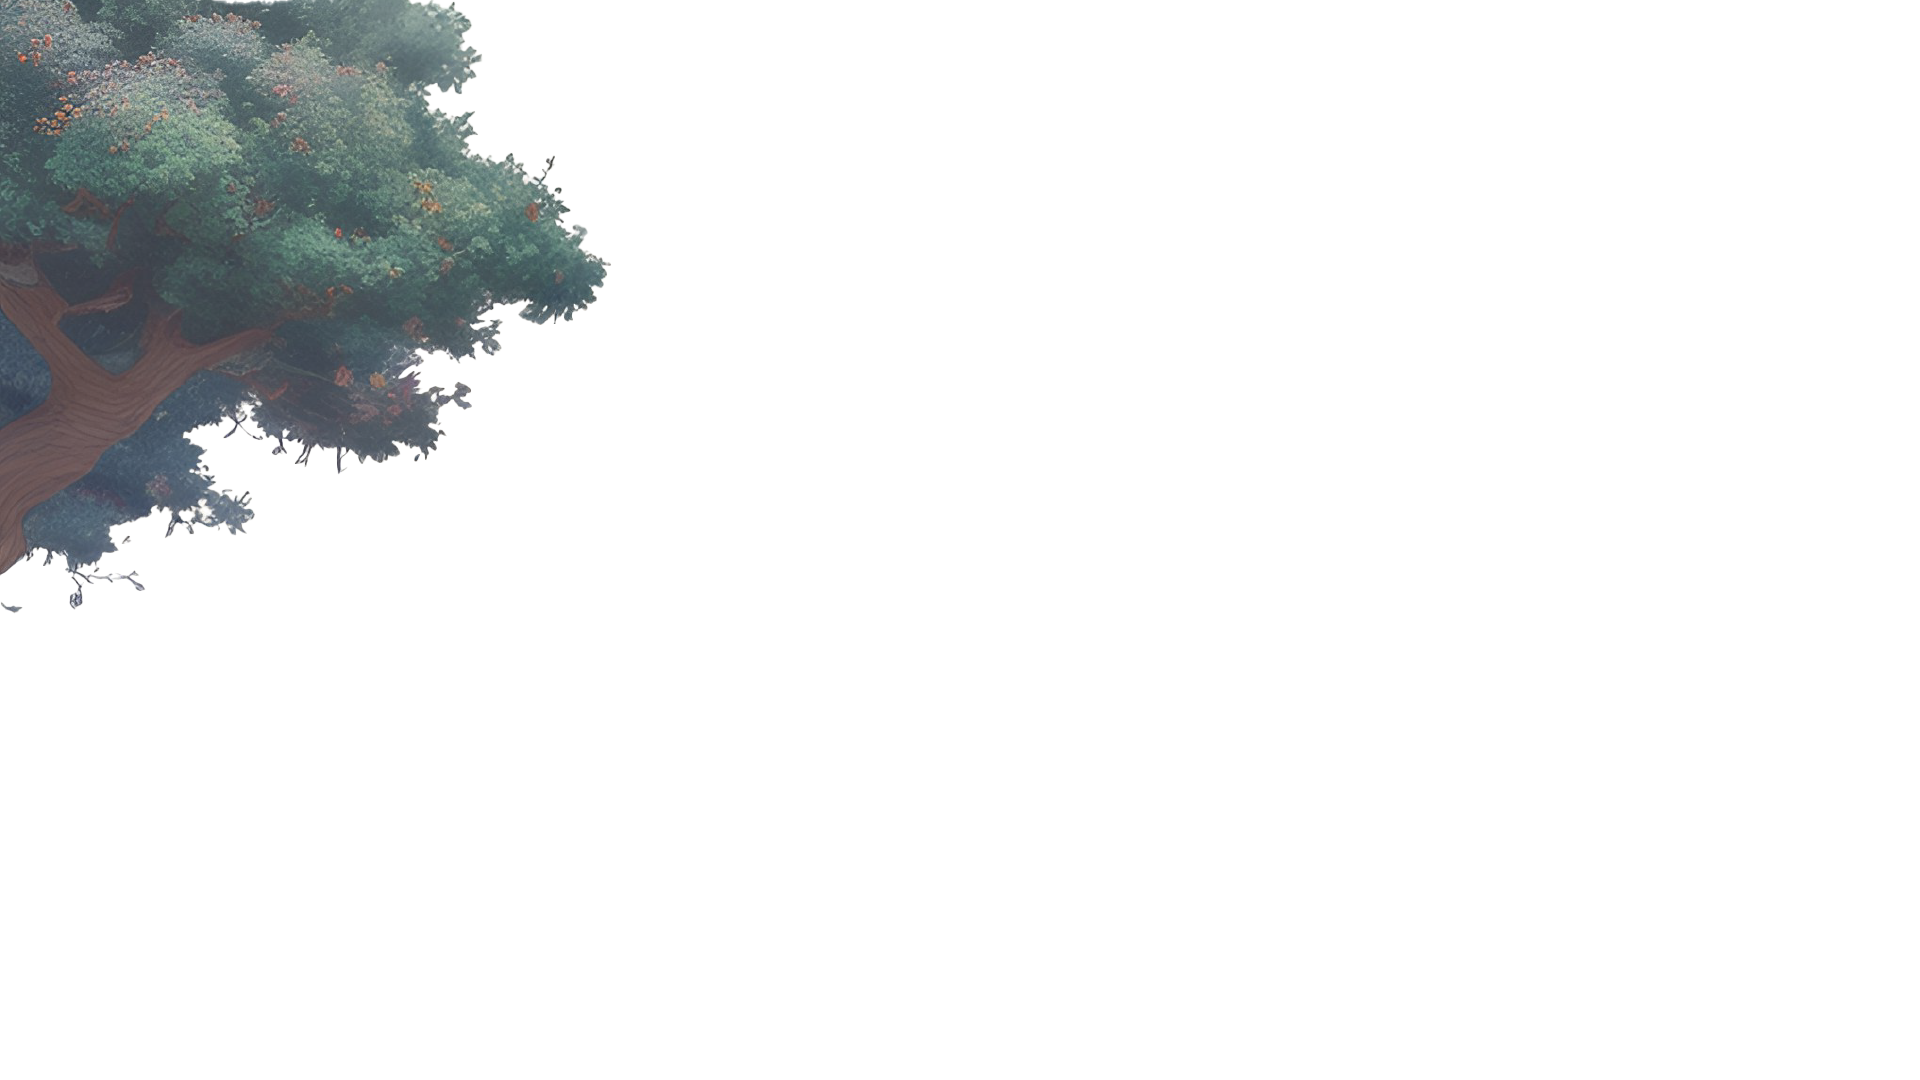
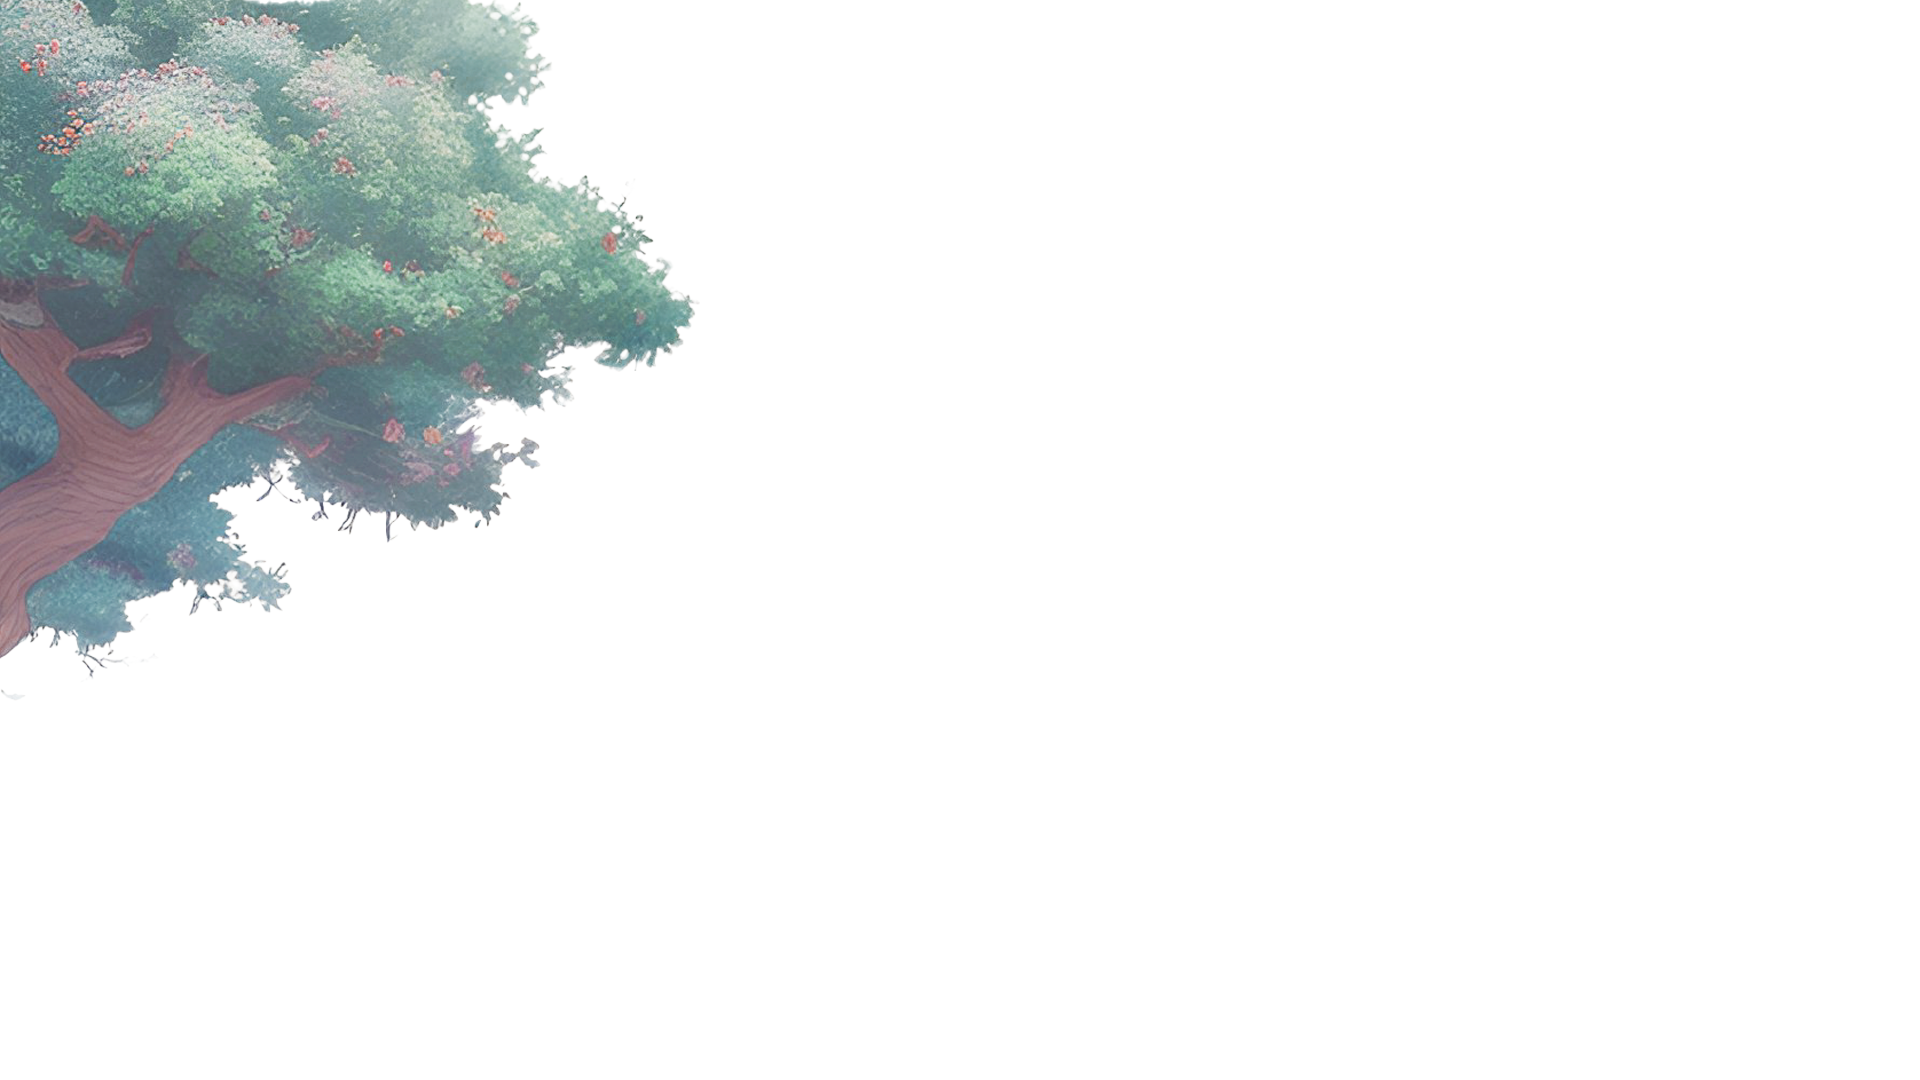
0821

Changed region(s): [[0.0, 0.0, 0.375, 0.6111]]

diff --git a/src/pages/user/online.vue b/src/pages/user/online.vue
@@ -1,164 +1,34 @@
 <template>
   <v-container >
-    <v-row >
-      <v-col >
-        <div id="dropZone" class="drop-zone"></div>
-      </v-col>
-    </v-row>
-    <v-row class="product-div">
-      <v-col>
-        <swiper
-          :watchSlidesProgress="true"
-          :modules="modules"
-          :slidesPerView="3"
-          class="mySwiper"
-          :allowTouchMove="false"
-          navigation
-          navigation-next-el=".swiper-button-next"
-          navigation-prev-el=".swiper-button-prev"
-        >
-          <swiper-slide class="img-box">
-            <v-img class="img" src="../../assets/onlineWorships/onlineWorshipProduct-1.png"></v-img>
-          </swiper-slide>
-          <swiper-slide class="img-box">
-            <v-img class="img" src="../../assets/onlineWorships/onlineWorshipProduct-2.png"></v-img>
-          </swiper-slide>
-          <swiper-slide class="img-box">
-            <v-img class="img" src="../../assets/onlineWorships/onlineWorshipProduct-3.png"></v-img>
-          </swiper-slide>
-          <swiper-slide class="img-box">
-            <v-img class="img" src="../../assets/onlineWorships/onlineWorshipProduct-4.png"></v-img>
-          </swiper-slide>
-          <swiper-slide class="img-box">
-            <v-img class="img" src="../../assets/onlineWorships/onlineWorshipProduct-5.png"></v-img>
-          </swiper-slide>
-          <swiper-slide class="img-box">
-            <v-img class="img" src="../../assets/onlineWorships/onlineWorshipProduct-6.png"></v-img>
-          </swiper-slide>
-        </swiper>
-      </v-col>
-    </v-row>
+    <div class="image-container">
+    <img class="img1-4" src="../../assets/banner-1/banner-1-4.png" alt="Image">
+</div>
   </v-container>
 </template>
 
 <script setup>
-import { Swiper, SwiperSlide } from 'swiper/vue'
-import 'swiper/css'
-import 'swiper/css/navigation' // 引入導航樣式
-import '../../styles/settings.scss'
-// import required modules
-import { Navigation } from 'swiper/modules'
 
-import { onMounted } from 'vue'
-
-const modules = [Navigation]
-
-onMounted(() => {
-  const imgs = document.getElementsByClassName('img')
-  const dropZone = document.getElementById('dropZone') // 獲取放置區域
-  if (!imgs.length || !dropZone) return
-
-  Array.from(imgs).forEach(img => {
-    img.onmousedown = function (event) {
-      const ballClone = img.cloneNode(true)
-      document.body.append(ballClone)
-
-      const shiftX = event.clientX - img.getBoundingClientRect().left
-      const shiftY = event.clientY - img.getBoundingClientRect().top
-
-      ballClone.style.position = 'fixed'
-      ballClone.style.zIndex = 1000
-      ballClone.style.width = img.style.width
-      ballClone.style.height = img.style.height
-      moveAt(event.pageX, event.pageY)
-
-      function moveAt (pageX, pageY) {
-        ballClone.style.left = pageX - shiftX + 'px'
-        ballClone.style.top = pageY - shiftY + 'px'
-      }
-
-      function onMouseMove (event) {
-        requestAnimationFrame(() => {
-          moveAt(event.pageX, event.pageY)
-        })
-      }
-
-      document.addEventListener('mousemove', onMouseMove)
-
-      ballClone.onmouseup = function () {
-        document.removeEventListener('mousemove', onMouseMove)
-
-        // 檢查克隆圖片是否在放置區域內
-        const cloneRect = ballClone.getBoundingClientRect()
-        const dropZoneRect = dropZone.getBoundingClientRect()
-
-        if (
-          cloneRect.right < dropZoneRect.left ||
-          cloneRect.left > dropZoneRect.right ||
-          cloneRect.bottom < dropZoneRect.top ||
-          cloneRect.top > dropZoneRect.bottom
-        ) {
-          // 如果不在區域內，移除克隆圖片或將其返回原位
-          ballClone.remove()
-        } else {
-          // 可以在這裡處理放置到區域內的邏輯
-          ballClone.style.left = `${dropZoneRect.left}px`
-          ballClone.style.top = `${dropZoneRect.top}px`
-          ballClone.style.position = 'absolute'
-          dropZone.appendChild(ballClone) // 將克隆圖片添加到放置區域內
-        }
-
-        ballClone.onmouseup = null
-      }
-    }
-
-    img.ondragstart = function () {
-      return false
-    }
-  })
-})
 </script>
 
 <style scoped lang="scss">
 @import "@/styles/settings"; // 導入變數文件
-// .dropZone-box{
-//   width: 800px; /* 設定放置區域的寬度 */
-//   height: 0px; /* 設定放置區域的高度 */
-//   border: 2px solid $ehp-yellow;
-//   position: relative; /* 允許內部元素定位 */
-//   top: 600px !important;
-// }
-#dropZone {
-  width: 600px; /* 設定放置區域的寬度 */
-  height: 400px; /* 設定放置區域的高度 */
-  border: 2px solid $ehp-yellow;
-  position: relative; /* 允許內部元素定位 */
-  // top: -600px;
-}
-.product-div {
-  position: absolute;
-  top: 75%;
-  width: 100%;
-  border: 2px solid $ehp-yellow;
-}
-.mySwiper {
-  width: 94%;
-  height: 100px;
-}
-.swiper-wrapper{
-  width: 50% !important;
+.image-container {
+    position: relative; /* 設置任務容器為 relative，作為圖片定位的參考點 */
+    width: 100%;
+    height: 400px;      /* 設置容器高度，可根據需求調整 */
+    overflow: hidden;   /* 隱藏超出容器範圍的部分 */
 }
 
-.img-box{
-  width: 110px !important;
-  height: 90px;
-  margin: auto;
-}
-.img {
-  cursor: pointer;
-  width: 90px !important;
-  margin: auto;
-  border: 2px solid $ehp-yellow;
+.img1-4 {
+    position: absolute;    /* 使圖片相對於容器進行絕對定位 */
+    top: 50%;              /* 定位到容,使圖片在容器的垂直中間 */
+    left: 50%;             /* 定位到容器的水平中間 */
+    transform: translate(-50%, -50%); /* 使圖片中心對齊容器中心 */
+    width: auto;           /* 保持圖片原比例 */
+    height: auto;          /* 根據圖片寬度自動調整高度 */
+    min-width: 100%;       /* 確保圖片不會小於容器寬度 */
+    min-height: 100%;      /* 確保圖片不會小於容器高度 */
+    object-fit: cover;     /* 保持圖片比例並裁切多餘部分 */
 }
 
 </style>

diff --git a/src/pages/index.vue b/src/pages/index.vue
@@ -8,28 +8,29 @@
     :modules="modules"
   >
     <swiper-slide>
+      <div class="image-container">
       <!-- <v-img class="img1-1" src="../assets/banner-1/banner-1.png"></v-img> -->
-      <img class="img1-1" src="../assets/banner-1/banner-1.png" alt="">
+      <div class="img1-1"></div>
+
       <img class="img1-4" src="../assets/banner-1/banner-1-4.png" alt="">
+
       <img class="img1-3" src="../assets/banner-1/banner-1-3.png" alt="">
       <img class="img1-2" src="../assets/banner-1/banner-1-2.png" alt="">
+    </div>
     </swiper-slide>
+
   </swiper>
 
   <div class="floating-content">
     <v-row>
-      <v-col cols="12"  class="text-English-position text-center" >
-        <div class="text-English ">Eternal Haven of Pikas</div>
+      <v-col cols="12"  class="text-center title-Chinese-position" >
+        <div class="text-Chinese text-black ">鼠兔永恆居所</div>
         </v-col>
     </v-row>
     <v-row>
-      <v-col cols="12"  class="text-Chinese-position text-left" >
-        <div class="text-Chinese text-black">鼠兔永恆居所</div>
-        </v-col>
-    </v-row>
-    <v-row>
-      <v-col cols="12"  class="text-p text-Chinese-position-p text-left" >
-        <div class="text-Chinese text-black"><p>鼠兔永恆居所是一個專為鼠兔而設的長眠居所，我們提供最舒適的環境，讓您的鼠兔能夠享受這美好世界。</p></div>
+      <v-col cols="12"  class="text-position" >
+        <div class="text-English-position text-English ">Eternal Haven of Pikas</div>
+        <div class="text-Chinese text-black text-Chinese-position-p text-p"><p> &nbsp; 鼠兔永恆居所是一個專為鼠兔而設的長眠居所，我們提供最舒適的環境&nbsp; ，讓您的鼠兔能夠享受這美好世界。</p></div>
         </v-col>
     </v-row>
   </div>
@@ -83,23 +84,24 @@ onMounted(() => {
     yoyo: true // 反向播放
   })
   gsap.to('.img1-3', {
-    scale: 1.8,
+    scale: 1.7,
     x: 2,
     y: 0,
-    duration: 1.5, // 動畫時間1.5秒
+    duration: 2, // 動畫時間1.5秒
     transformOrigin: '0% 0%' // 設置變換原點為左上角
   })
   gsap.to('.img1-2', {
-    scale: 1.8,
+    scale: 1.7,
     x: 0, // 向左移動100px
     y: 0, // 向下移動100px
-    duration: 1.5, // 動畫時間1.5秒
+    duration: 2, // 動畫時間1.5秒
     transformOrigin: '100% 0%' // 設置變換原點為右上角
   })
 })
 
 // Define the modules to be used
 const modules = [Autoplay]
+
 definePage({
   meta: {
     title: '鼠兔永恆居所',
@@ -113,29 +115,31 @@ definePage({
 
 .text-English-position{
   z-index: 99;
-  padding-top: 90px; /* 根據需要調整 */
-  font-size: 3vw;
-  font-weight: bold;
+  padding-top: 70px; /* 根據需要調整 */
+  font-size: 7vw;
+  font-weight:400;
+  text-shadow: 3px 3px 3px #afaeae;
 }
-
-.text-Chinese-position{
+/* 鼠兔永恆居所-標題-------------------------- */
+.title-Chinese-position{
   z-index: 99;
-  padding-top: 28%; /* 根據需要調整 */
-  font-size: 5vw;
+  padding-top: 8%; /* 根據需要調整 */
+  font-size: 3vw;
+  position: relative;
+}
+/* 副標題------------------------------------- */
+.text-position{
+position: absolute;
+top:75%;
 }
 .text-Chinese-position-p{
+  position: absolute;
+  top: 260px;
   z-index: 99;
   font-size: 1.5vw;
-}
-
-.text-p>.text-black{
-  opacity: 0.5; /* 設置透明度 */
 
 }
-/* .text{
-  font-size: xx-large;
-  color: black;
-} */
+
 .floating-content {
   position: absolute;
   top: 0px; /* 根據需要調整 */
@@ -143,19 +147,38 @@ definePage({
   width: 100%;
   z-index: 99;
   /* background: rgba(255, 255, 255, 0.8); 可選，增加背景色和透明度 */
-  padding: 75px; /* 根據需要調整 */
+  padding: 5%; /* 根據需要調整 */
   height:840px
 }
-/* 第一張圖片-中間小島 */
-.img1-4{
-  position: absolute;
-  top: 10%;
-  left: 6%;
-  width: 90%;
-  /* height: 100%; */
-  z-index: 98;
+/* swiper 第一張組圖----------------------------------- */
+.image-container {
+    position: relative;
+    width: 100%;
+    height: 100vh;
+    overflow: hidden;
 }
-/* 第一張圖片-左邊樹 */
+/* swiper 第一張組圖-背景------------------------------- */
+.img1-1{
+  width: 100%;  /* 設置容器寬度為100% */
+    height: 100vh;
+    background-image: url('../assets/banner-1/banner-1.png') ;  /* 設置圖片的路徑 */
+    background-position: center;  /* 使圖片始終居中 */
+    background-size: cover;  /* 保持圖片比例且裁切外部多餘部分 */
+    background-repeat: no-repeat;  /* 避免圖片重複 */
+}
+
+/*  swiper 第一張組圖-中間小島------------------------------ */
+.img1-4{
+  position: absolute;    /* 使圖片相對於容器進行絕對定位 */
+    top: 10%;              /* 定位到容,使圖片在容器的垂直中間 */
+    left: 2%;             /* 定位到容器的水平中間 */
+    width: 95%;           /* 設置圖片寬度為100% */
+    min-width: 90%;       /* 確保圖片不會小於容器寬度 */
+    min-height: 90%;      /* 確保圖片不會小於容器高度 */
+    object-fit: cover;     /* 保持圖片比例並裁切多餘部分 */
+}
+
+/*  swiper 第一張組圖-左邊樹------------------------------ */
 .img1-3{
   position: absolute;
   top: 0%;
@@ -164,7 +187,7 @@ definePage({
   /* height: 100%; */
   z-index: 97;
 }
-/* 第一張圖片-右邊樹 */
+/*  swiper 第一張組圖-右邊樹------------------------------ */
 .img1-2{
   position: absolute;
   top: 0%;
